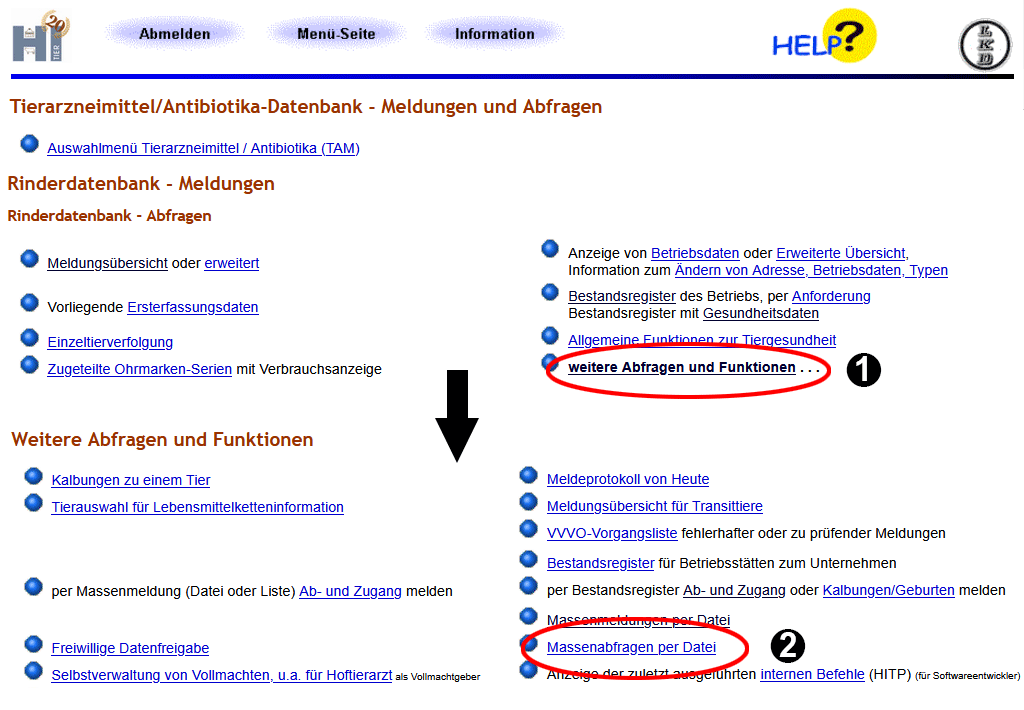
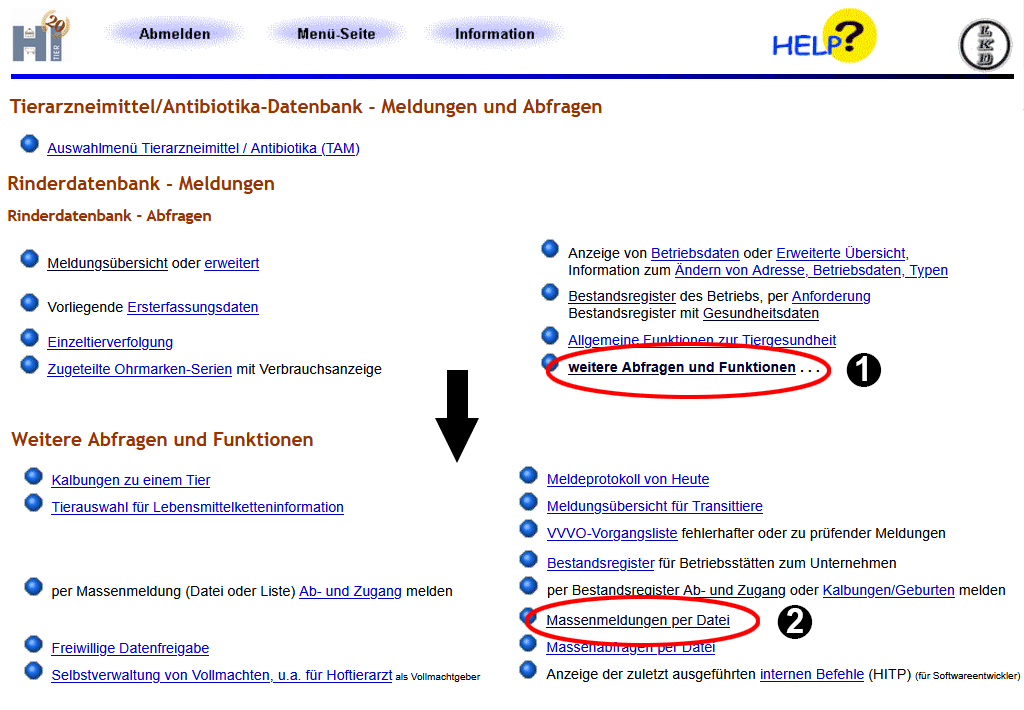
Zugangsmeldung: weiteres Meldeformular hinzugefügt

Changed region(s): [[0.5, 0.8366, 0.875, 0.9606]]

diff --git a/content/de/fresser/massenmeldung/zugangsmeldung.md b/content/de/fresser/massenmeldung/zugangsmeldung.md
@@ -22,8 +22,89 @@ description: >
 </svg>
 
 {{< tabpane persist="header" text=true >}}
-  {{% tab header="**Meldeportal**:" disabled=true /%}}
-  {{% tab header="HI-Tier klassisch" %}}
+  {{% tab header="**Meldeformular**:" disabled=true /%}}
+
+  {{% tab header="_Umbuchung_ (Empfehlung)" %}}
+1. Klicken Sie auf die untenstehende Schaltfläche, um die Anmeldeseite bei HI-Tier aufzurufen. Melden Sie sich dort mit ihrer Betriebsnummer <img src="/digits/1_negative_circled.svg" width="25" align="middle" alt="Circled digit 1" title="Ziffer 1" /> und ihrem Passwort <img src="/digits/2_negative_circled.svg" width="25" align="middle" alt="Circled digit 2" title="Ziffer 2" /> an.
+
+    <a href="https://www.hi-tier.de/hitCom/login.asp" role="button" class="btn btn-primary" target="_blank">Zu HI-Tier: _Anmeldeseite_</a>
+
+    <figure class="figure" style="margin-top: 20px">
+        <img src="../screenshots/anmeldung.png" class="border border-2 figure-img img-fluid rounded p-3" align="bottom" alt="Anmeldebildschirm HI-Tier" title="Anmeldung bei HI-Tier" />
+        <figcaption class="figure-caption fs-6">Screenshot 1: Anmeldung beim HI-Tier Portal</figcaption>
+    </figure>
+
+1. Klicken Sie auf die untenstehende Schaltfläche, um bei HI-Tier direkt die Bildschirmseite zur Massenmeldung von Tieren aufzurufen. Sollte dieser Link für Sie nicht funktionieren, so folgen sie den untenstehenden [Anweisungen](#call-screen-via-links), um die Bildschirmseite manuell linkgestützt aufzurufen.
+
+    <a href="https://www.hi-tier.de/hitCom/l_uploadabzu.asp?M=WEI" role="button" class="btn btn-primary" target="_blank">Zu HI-Tier: _Massenmeldung von Zugängen_</a>
+
+    <div class="alert alert-primary d-flex align-items-center" role="alert">
+    <svg xmlns="http://www.w3.org/2000/svg" width="45px" fill="#810012" class="bi bi-exclamation-triangle-fill flex-shrink-0 me-3" viewBox="0 0 16 16" role="img" aria-label="Tipp:">
+      <use xlink:href="#check-circle-fill"/>
+    </svg>
+    <div>
+      <span class="text-primary fs-3 fw-semibold">Tipp</span><br>
+      Setzen Sie sich in ihrem Browser ein Lesezeichen auf diese Seite, damit Sie sie beim nächsten Meldevorgang leichter wiederfinden können.
+    </div>
+    </div>
+
+1. Lassen Sie das Textfeld `Abgangsbetrieb` <img src="/digits/1_negative_circled.svg" width="25" align="middle" alt="Circled digit 1" title="Ziffer 1" /> leer, da sie keine Tiere abmelden wollen.
+
+1. Geben Sie in das Textfeld `Zugangsbetrieb` <img src="/digits/2_negative_circled.svg" width="25" align="middle" alt="Circled digit 2" title="Ziffer 2" /> die zwölfstellige Betriebsnummer ihres Betriebs ein. Die Zukäufe werden auf diesen Betrieb gebucht.
+
+1. Geben Sie in das Textfeld `Datum` <img src="/digits/3_negative_circled.svg" width="25" align="middle" alt="Circled digit 3" title="Ziffer 3" /> dasjenige Datum an, an dem die Ummeldung erfolgt ist (Format: `TT.MM.JJJJ`).
+
+1. Wählen Sie über den Punkt `Daten-Datei` <img src="/digits/4_negative_circled.svg" width="25" align="middle" alt="Circled digit 4" title="Ziffer 4" /> diejenige CSV-Exportdatei auf ihrem USB-Stick aus, die Sie im vorherigen Schritt [Erzeugung CSV-Datei](/fresser/erzeugung-csv/) erstellt haben.
+
+1. Klicken Sie auf die Schaltfläche `Einfügen` <img src="/digits/5_negative_circled.svg" width="25" align="middle" alt="Circled digit 5" title="Ziffer 5" />, um die Massenmeldung ihrer Zukäufe vorzunehmen.
+
+    <div class="alert alert-primary d-flex align-items-center" role="alert">
+    <svg xmlns="http://www.w3.org/2000/svg" width="45px" fill="#810012" class="bi bi-exclamation-triangle-fill flex-shrink-0 me-3" viewBox="0 0 16 16" role="img" aria-label="Info:">
+      <use xlink:href="#info-fill"/>
+    </svg>
+    <div>
+      <span class="text-primary fs-3 fw-semibold">Hinweis</span><br>
+      Bei einer größeren Anzahl an zu meldenden Tieren kann der Exportvorgang 30 Sekunden (oder mehr) in Anspruch nehmen. Seien Sie bitte geduldig und warten das Erscheinen der Erfolgsmeldung ab!
+    </div>
+    </div>
+
+<figure class="figure" style="margin-top: 10px;">
+    <img src="../screenshots/massenmeldung-txt.png" class="border border-2 figure-img img-fluid rounded p-3" align="bottom" alt="Bildschirmseite Massenummeldung" title="Massenummeldung HI-Tier" />
+    <figcaption class="figure-caption fs-6">Screenshot 2: Bildschirm <span style="font-style: italic;">Massenmeldung</span></figcaption>
+</figure>
+
+6. Nach Abschluss der Massenmeldung wird in der unteren Bildschirmhälfte eine Statistik ihres Meldevorgangs angezeigt. In dieser Statistik wird die Anzahl <img src="/digits/1_negative_circled.svg" width="25" align="middle" alt="Circled digit 1" title="Ziffer 1" /> der erfolgreichen Meldungen ebenso aufgeführt wie die Anzahl der fehlgeschlagenen Meldungen.
+
+    <div class="alert alert-primary d-flex align-items-center" role="alert">
+    <svg xmlns="http://www.w3.org/2000/svg" width="64px" fill="#810012" class="bi bi-exclamation-triangle-fill flex-shrink-0 me-3" viewBox="0 0 16 16" role="img" aria-label="Attention:">
+      <use xlink:href="#exclamation-triangle-fill"/>
+    </svg>
+    <div>
+    <span class="text-primary fs-3 fw-semibold">ACHTUNG</span><br>Sollte es bei Ihrer Meldung zu Fehlern gekommen sein, nehmen Sie diese ernst und stellen Sie die aufgetretenen Fehler anhand der gegebenen Hinweise ab!
+    </div>
+    </div>
+
+<figure class="figure" style="margin-top: 20px;margin-bottom: 40px;">
+    <img src="../screenshots/erfolg-massenmeldung-txt.png" class="border border-2 figure-img img-fluid rounded p-3" align="bottom" alt="Erfolgsmeldung Massenmeldung" title="Erfolgsmeldung Massenmeldung" />
+    <figcaption class="figure-caption fs-6">Screenshot 3: Erfolgreiche Ausführung der Massenmeldung</figcaption>
+</figure>
+
+Ihre Tiere wurden damit bei HI-Tier erfolgreich vom Abgangsbetrieb auf den Zugangsbetrieb umgemeldet.
+
+## Linkgeführter Aufruf des Bildschirms <span style="font-style: italic;">Massenmeldung</span> {#call-screen-via-links}
+
+1. Rufen Sie den Startbildschirm des HI-Tier Portals auf. Dort finden Sie unter der Überschrift `Rinderdatenbank - Abfragen` den Menüpunkt `weitere Abfragen und Funktionen` <img src="/digits/1_negative_circled.svg" width="25" align="middle" alt="Circled digit 1" title="Ziffer 1" />. Klicken Sie auf diesen Menüpunkt.
+
+2.  Sie werden jetzt auf eine neue Seite weitergeleitet, auf der sich ein zweispaltiges Auswahlmenü `Weitere Abfragen und Funktionen` befindet. Klicken Sie in diesem Menü auf den Menüpunkt `Ab- und Zugang` <img src="/digits/2_negative_circled.svg" width="25" align="middle" alt="Circled digit 2" title="Ziffer 2" /> in der linken Spalte. Sie werden jetzt auf die gewünschte Bildschirmseite zur [Massenmeldung](https://www.hi-tier.de/hitCom/l_uploadabzu.asp?M=WEI) weitergeleitet.
+
+<figure class="figure" style="margin-top: 20px;">
+    <img src="../screenshots/ummeldung/aufruf-massenummeldung.png" class="border border-2 figure-img img-fluid rounded p-3" align="bottom" alt="Aufruf Bildschirm Massenummeldung" title="Aufruf Massenummeldung" />
+    <figcaption class="figure-caption fs-6">Screenshot 4: Aufruf des Bildschirm <span style="font-style: italic;">Massenummeldung</span> via Links</figcaption>
+</figure>
+
+  {{% /tab %}}
+
+  {{% tab header="_Massenmeldung_ (Alternative)" %}}
 1. Klicken Sie auf die untenstehende Schaltfläche, um die Anmeldeseite bei HI-Tier aufzurufen. Melden Sie sich dort mit ihrer Betriebsnummer <img src="/digits/1_negative_circled.svg" width="25" align="middle" alt="Circled digit 1" title="Ziffer 1" /> und ihrem Passwort <img src="/digits/2_negative_circled.svg" width="25" align="middle" alt="Circled digit 2" title="Ziffer 2" /> an.
 
     <a href="https://www.hi-tier.de/hitCom/login.asp" role="button" class="btn btn-primary" target="_blank">Zu HI-Tier: _Anmeldeseite_</a>
@@ -98,7 +179,7 @@ Ihre zugekauften Tiere wurden damit bei HI-Tier erfolgreich als Zugänge gemelde
 </figure>
 
   {{% /tab %}}
-  {{% tab header="HI Tier Version 3" %}}
+  {{% tab header="_Massenmeldung_ (HI Tier Version 3)" %}}
 
 1. Klicken Sie auf die untenstehende Schaltfläche, um die Anmeldeseite des HI-Tier Portals V3 aufzurufen. Melden Sie sich dort mit ihrer Betriebsnummer <img src="/digits/1_negative_circled.svg" width="25" align="middle" alt="Circled digit 1" title="Ziffer 1" /> und ihrem Passwort <img src="/digits/2_negative_circled.svg" width="25" align="middle" alt="Circled digit 2" title="Ziffer 2" /> an.
 

diff --git a/content/de/fresser/massenmeldung/ummeldung.md b/content/de/fresser/massenmeldung/ummeldung.md
@@ -68,7 +68,7 @@ description: >
     </div>
 
 <figure class="figure" style="margin-top: 10px;">
-    <img src="../screenshots/massenummeldung.png" class="border border-2 figure-img img-fluid rounded p-3" align="bottom" alt="Bildschirmseite Massenummeldung" title="Massenummeldung HI-Tier" />
+    <img src="../screenshots/ummeldung/massenummeldung.png" class="border border-2 figure-img img-fluid rounded p-3" align="bottom" alt="Bildschirmseite Massenummeldung" title="Massenummeldung HI-Tier" />
     <figcaption class="figure-caption fs-6">Screenshot 2: Bildschirm <span style="font-style: italic;">Ummeldung zwischen zwei Betrieben (Massenmeldung)</span></figcaption>
 </figure>
 
@@ -84,8 +84,8 @@ description: >
     </div>
 
 <figure class="figure" style="margin-top: 20px;margin-bottom: 40px;">
-    <img src="../screenshots/erfolg-massenmeldung.png" class="border border-2 figure-img img-fluid rounded p-3" align="bottom" alt="Erfolgsmeldung Massenmeldung" title="Erfolgsmeldung Massenmeldung" />
-    <figcaption class="figure-caption fs-6">Screenshot 3: Erfolgreiche Ausführung der Massenmeldung</figcaption>
+    <img src="../screenshots/ummeldung/erfolg-ummeldung.png" class="border border-2 figure-img img-fluid rounded p-3" align="bottom" alt="Erfolgsmeldung Ummeldung" title="Erfolgsmeldung Ummeldung" />
+    <figcaption class="figure-caption fs-6">Screenshot 3: Erfolgreiche Ausführung der Ummeldung zwischen zwei Betrieben</figcaption>
 </figure>
 
 Ihre Tiere wurden damit bei HI-Tier erfolgreich vom Abgangsbetrieb auf den Zugangsbetrieb umgemeldet.
@@ -97,7 +97,7 @@ Ihre Tiere wurden damit bei HI-Tier erfolgreich vom Abgangsbetrieb auf den Zugan
 2.  Sie werden jetzt auf eine neue Seite weitergeleitet, auf der sich ein zweispaltiges Auswahlmenü `Weitere Abfragen und Funktionen` befindet. Klicken Sie in diesem Menü auf den Menüpunkt `Ab- und Zugang` <img src="/digits/2_negative_circled.svg" width="25" align="middle" alt="Circled digit 2" title="Ziffer 2" /> in der linken Spalte. Sie werden jetzt auf die gewünschte Bildschirmseite [Ummeldung zwischen Betrieben](https://www.hi-tier.de/hitCom/l_uploadabzu.asp?M=WEI) weitergeleitet.
 
 <figure class="figure" style="margin-top: 20px;">
-    <img src="../screenshots/aufruf-massenummeldung.png" class="border border-2 figure-img img-fluid rounded p-3" align="bottom" alt="Aufruf Bildschirm Massenummeldung" title="Aufruf Massenummeldung" />
+    <img src="../screenshots/ummeldung/aufruf-massenummeldung.png" class="border border-2 figure-img img-fluid rounded p-3" align="bottom" alt="Aufruf Bildschirm Massenummeldung" title="Aufruf Massenummeldung" />
     <figcaption class="figure-caption fs-6">Screenshot 4: Aufruf des Bildschirm <span style="font-style: italic;">Massenummeldung</span> via Links</figcaption>
 </figure>
 
